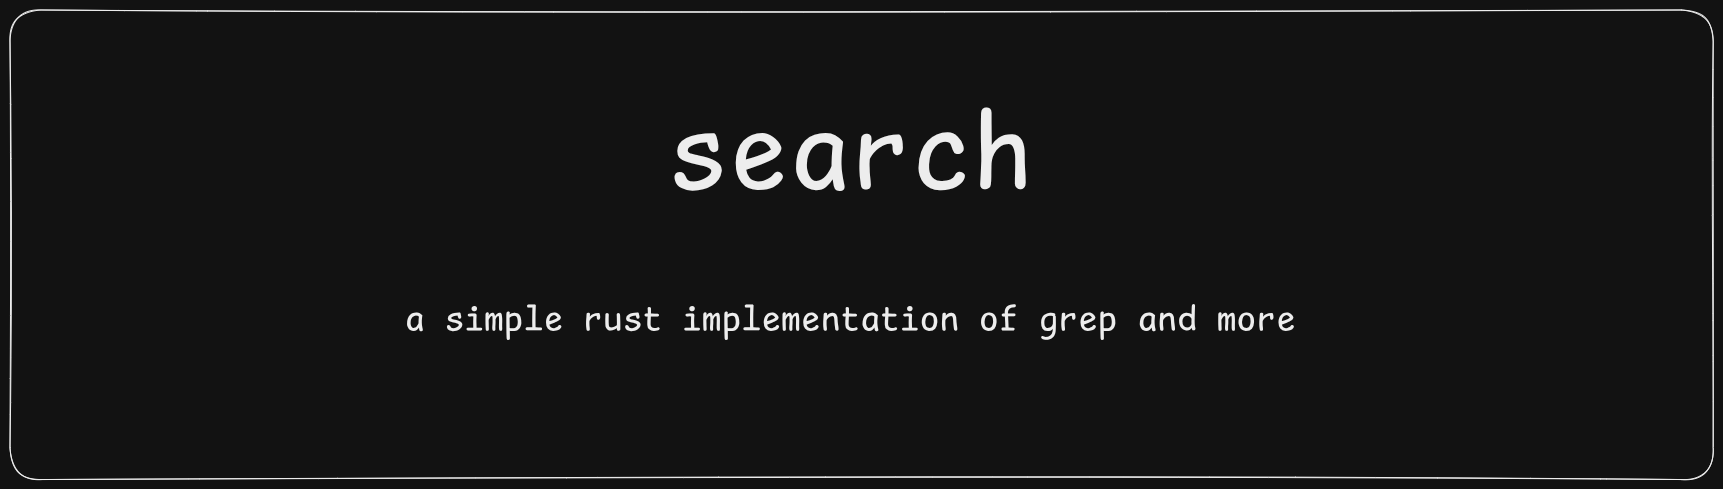
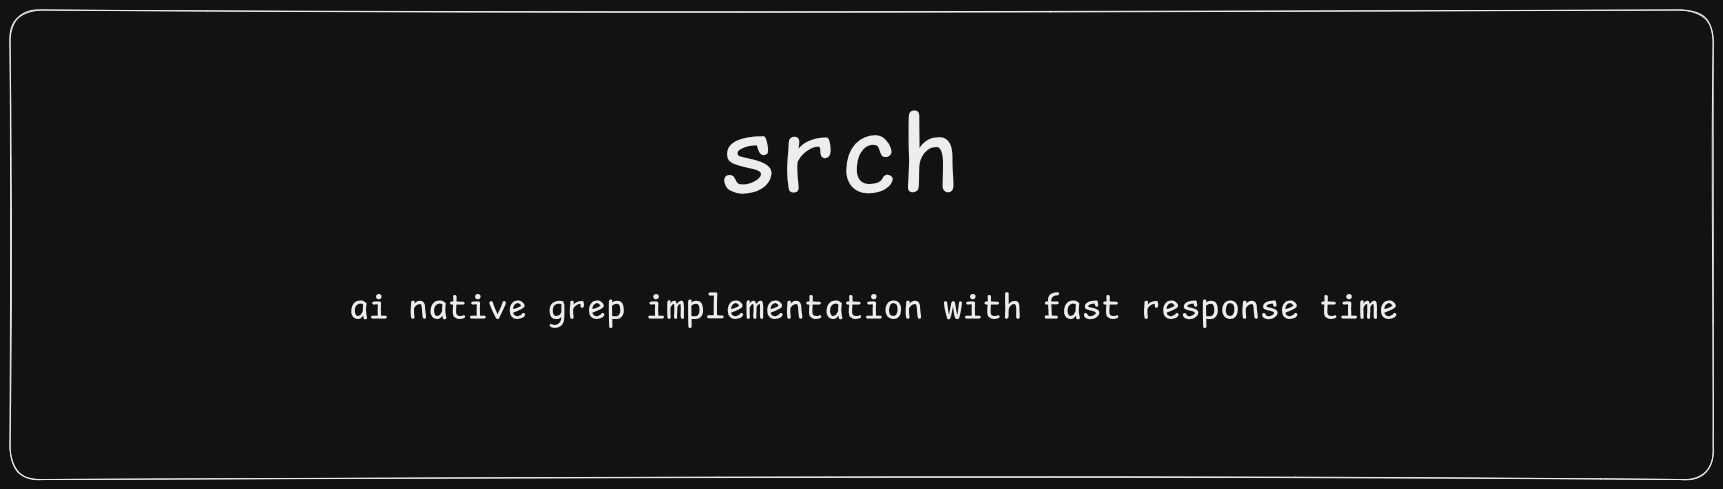
feat: updated readme

Changed region(s): [[0.1846, 0.6135, 0.8305, 0.7055], [0.3691, 0.2147, 0.6152, 0.3988]]

diff --git a/Readme.md b/Readme.md
@@ -1,8 +1,20 @@
-![srch](public/banner.png)
+<p align="center">
+  <img src="./assets/readme/hero.svg" width="100%" alt="srch: parallel regex search across files and directories, shown running against its own source">
+</p>
 
 # srch
 
-A fast, grep-inspired search tool built in Rust. Supports regex and fixed-string matching across files and directories, with buffered output optimized for large codebases.
+A fast, grep-inspired search tool built in Rust. Regex or fixed-string matching across files and directories, parallelized across files with [Rayon](https://github.com/rayon-rs/rayon).
+
+---
+
+## Why srch
+
+- **Regex or literal matching** — full regex by default, `-F` switches to a literal fixed-string search.
+- **Recursive directory search** — point it at a directory and every file underneath gets searched.
+- **Parallel across files** — each file is matched concurrently; results are collected and written once they're all ready.
+- **Case-insensitive mode** — `-i` folds case for both regex and literal search.
+- **Buffered output** — results are written through a single `BufWriter`, not one syscall per line.
 
 ---
 
@@ -85,4 +97,4 @@ srch "todo" ./src -i
 
 ## Status
 
-Active development. Core search, regex support, directory traversal, and buffered output are implemented. Additional features are in progress.
+Active development. Core search, regex support, recursive directory traversal, case-insensitive matching, parallel file search, and buffered output are implemented. Additional features are in progress.
